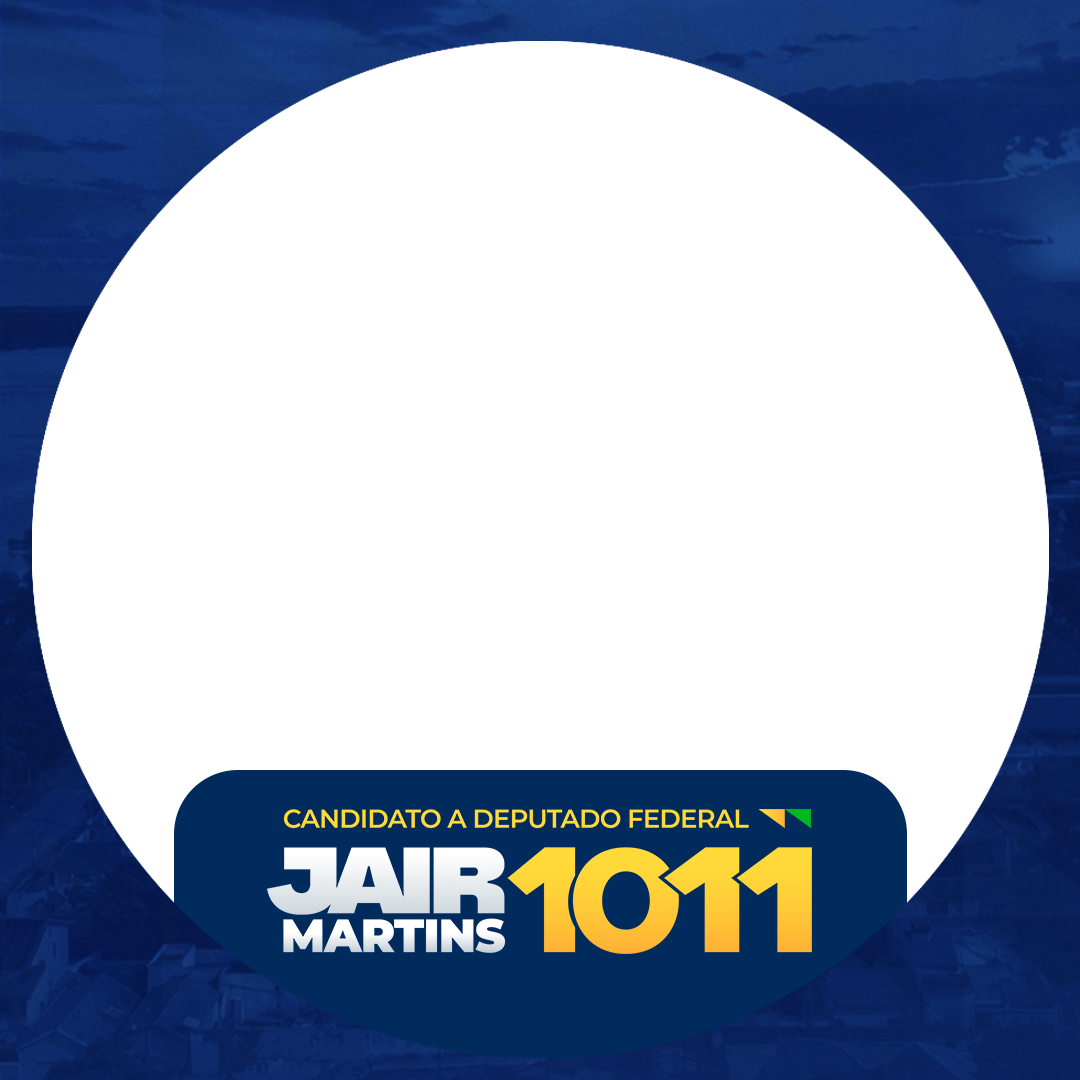
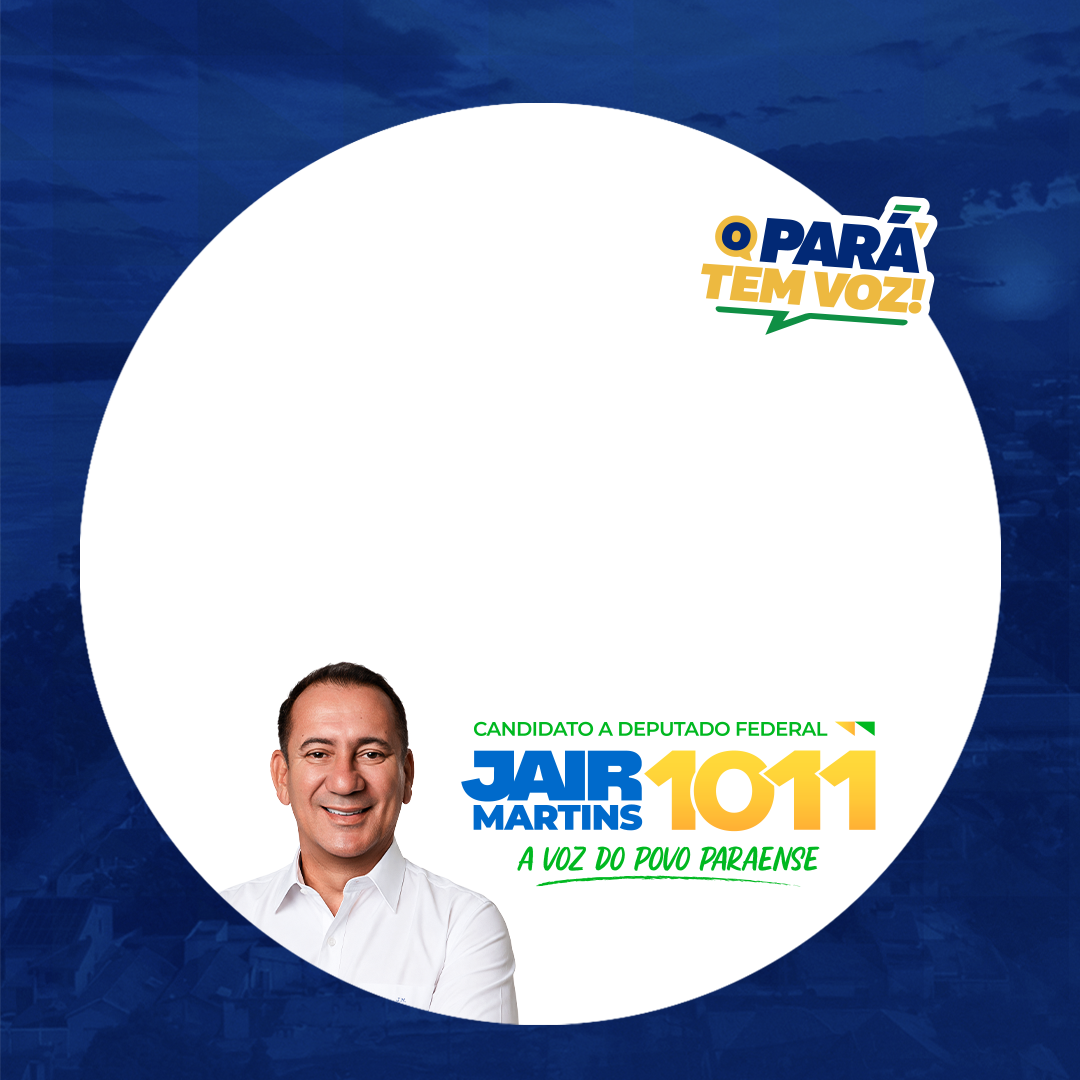
feat: substituir molduras quadradas oficiais

diff --git a/src/components/campaign-photo-creator.tsx b/src/components/campaign-photo-creator.tsx
@@ -25,9 +25,9 @@ const formats = {
 
 const frameAssets: Record<PhotoFormat, FrameAsset[]> = {
   square: [
-    { name: "Azul 1011", src: "/frames/square/frame-01.png" },
-    { name: "Verde Tem Voz", src: "/frames/square/frame-02.png" },
-    { name: "Pará Tem Voz", src: "/frames/square/frame-03.png" },
+    { name: "Pará Tem Voz Azul", src: "/frames/square/frame-01.png" },
+    { name: "Pará Tem Voz Verde", src: "/frames/square/frame-02.png" },
+    { name: "Campanha Azul", src: "/frames/square/frame-03.png" },
   ],
   feed: [
     { name: "Campanha Azul", src: "/frames/feed/frame-01.png" },
